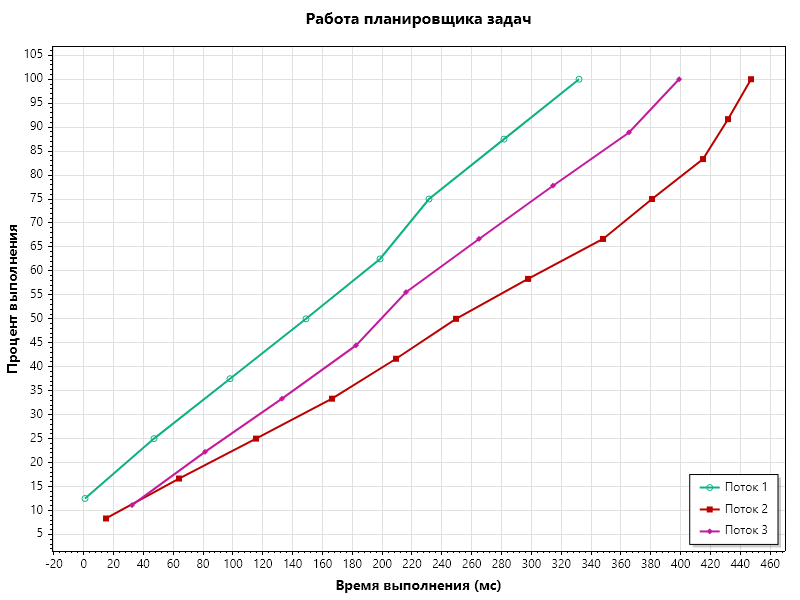
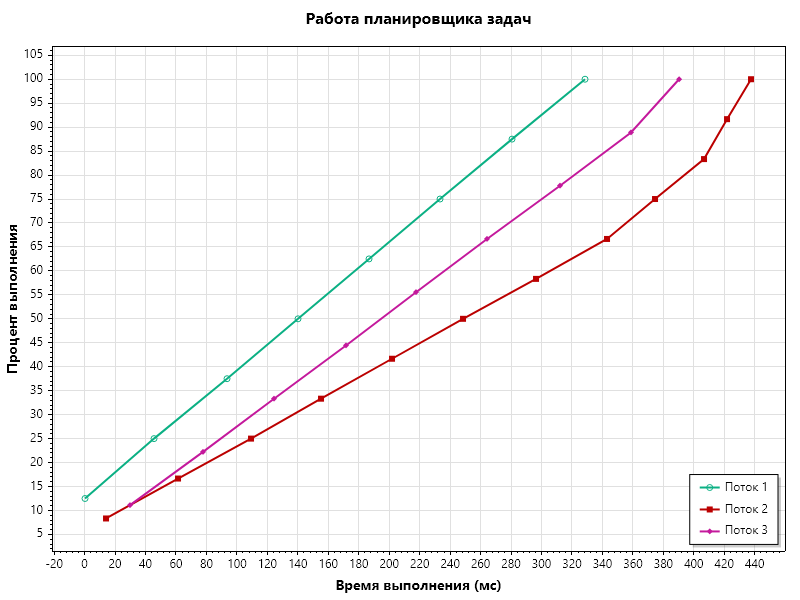
feat: TestCommand

diff --git a/task17tests/TestCommandTests.cs b/task17tests/TestCommandTests.cs
@@ -1,0 +1,130 @@
+using task17;
+using task18;
+using task19;
+using ScottPlot;
+using System.Collections.Concurrent;
+using System.Diagnostics;
+
+namespace task19tests;
+
+
+public class Task19CombinedTest
+{
+    [Fact]
+    public void FiveCommandsThreeTimes()
+    {
+        var scheduler = new Scheduler();
+        var server = new ServerThread(scheduler);
+        var progressData = new ConcurrentDictionary<int, List<(double TimeMs, double Progress)>>();
+        var sw = Stopwatch.StartNew();
+        const int CommandCount = 5;
+        const int StepsPeriodCommand = 3;
+        for (int i = 1; i <= CommandCount; i++)
+        {
+            progressData[i] = new List<(double, double)>();
+            int id = i;
+            
+            var testcmd = new TestCommand(id);
+            var repeatedCmd = new RepeatedCommand(testcmd, StepsPeriodCommand);
+            var statCmd = new Statistics(repeatedCmd, id, StepsPeriodCommand, 
+                (time, prog) => progressData[id].Add((time, prog)));
+                
+            scheduler.Add(statCmd);
+        }
+        server.Start();
+        int timeout = 3000;
+        while (sw.ElapsedMilliseconds < timeout)
+        {
+            bool allDone = true;
+            for (int i = 1; i <= CommandCount; i++)
+            {
+                if (progressData[i].Count < StepsPeriodCommand)
+                {
+                    allDone = false;
+                    break;
+                }
+            }
+            if (allDone) break;
+            Thread.Sleep(10);
+        }
+        server.Enqueue(new HardStopCommand(server));
+        server.GetThread()?.Join();
+        Assert.All(progressData.Values, list => Assert.Equal(StepsPeriodCommand, list.Count));
+        Graphic(progressData, CommandCount);
+    }
+    private void Graphic(ConcurrentDictionary<int, List<(double TimeMs, double Progress)>> data, int count)
+    {
+        var plt = new Plot();
+        var colors = new[] { "#1f77b4", "#ff7f0e", "#2ca02c", "#d62728", "#9467bd" };
+        for (int i = 1; i <= count; i++)
+        {
+            var points = data[i].OrderBy(x => x.TimeMs).ToList();
+            double[] xs = points.Select(p => p.TimeMs).ToArray();
+            double[] ys = points.Select(p => p.Progress).ToArray();
+            var sig = plt.Add.SignalXY(xs, ys);
+            sig.Color = Color.FromHex(colors[i - 1]);
+            sig.LineWidth = 2;
+            sig.MarkerSize = 8;
+            sig.MarkerShape = MarkerShape.FilledCircle;
+            sig.LegendText = $"Команда {i}";
+        }
+        plt.Title("Dыполнение 5 экземпляров TestCommand 3 раза", 16);
+        plt.XLabel("Время выполнения", 14);
+        plt.YLabel("Процесс выполнения", 14);
+        plt.Axes.AutoScale();
+        plt.ShowLegend();
+        plt.Grid.MajorLineColor = Color.FromHex("#e0e0e0");
+        string projectPath = Path.GetFullPath(Path.Combine(AppContext.BaseDirectory, "..", "..", ".."));
+        string outputPath = Path.Combine(projectPath, "GraphicTestCommand.png");
+        plt.SavePng(outputPath, 1000, 600);
+        Assert.True(File.Exists(outputPath));
+    }
+}
+
+public class RepeatedCommand : ILongCommand
+{
+    private readonly ICommand Inner;
+    private readonly int MaxExecutions;
+    private int CurrentExecutions;
+
+    public bool IsCompleted => CurrentExecutions  >= MaxExecutions;
+
+    public RepeatedCommand(ICommand inner, int maxExecutions)
+    {
+        Inner = inner;
+        MaxExecutions = maxExecutions;
+    }
+
+    public void Execute()
+    {
+        Inner.Execute();
+        CurrentExecutions++;
+    }
+}
+
+public class Statistics : ILongCommand
+{
+    private readonly ILongCommand Inner;
+    private readonly int Id;
+    private readonly int MaxSteps;
+    private readonly Action<double, double> Progress;
+    private int CurrentStep;
+
+    public bool IsCompleted => Inner.IsCompleted;
+
+    public Statistics(ILongCommand inner, int id, int maxSteps, Action<double, double> progress)
+    {
+        Inner = inner;
+        Id = id;
+        MaxSteps = maxSteps;
+        Progress = progress;
+    }
+
+    public void Execute()
+    {
+        Inner.Execute();
+        CurrentStep++;
+        double progress = (CurrentStep / (double)MaxSteps) * 100.0;
+        Progress(Stopwatch.GetTimestamp() / (double)Stopwatch.Frequency * 1000.0, progress);
+    }
+}

diff --git a/task17/TestCommand.cs b/task17/TestCommand.cs
@@ -1,0 +1,13 @@
+using task17;
+namespace task19;
+
+public class TestCommand(int id) : ICommand
+{
+    int counter = 0;
+
+    public void Execute()
+    {
+        Thread.Sleep(10);
+        Console.WriteLine($"Поток {id} вызов {++counter}");
+    }
+}
